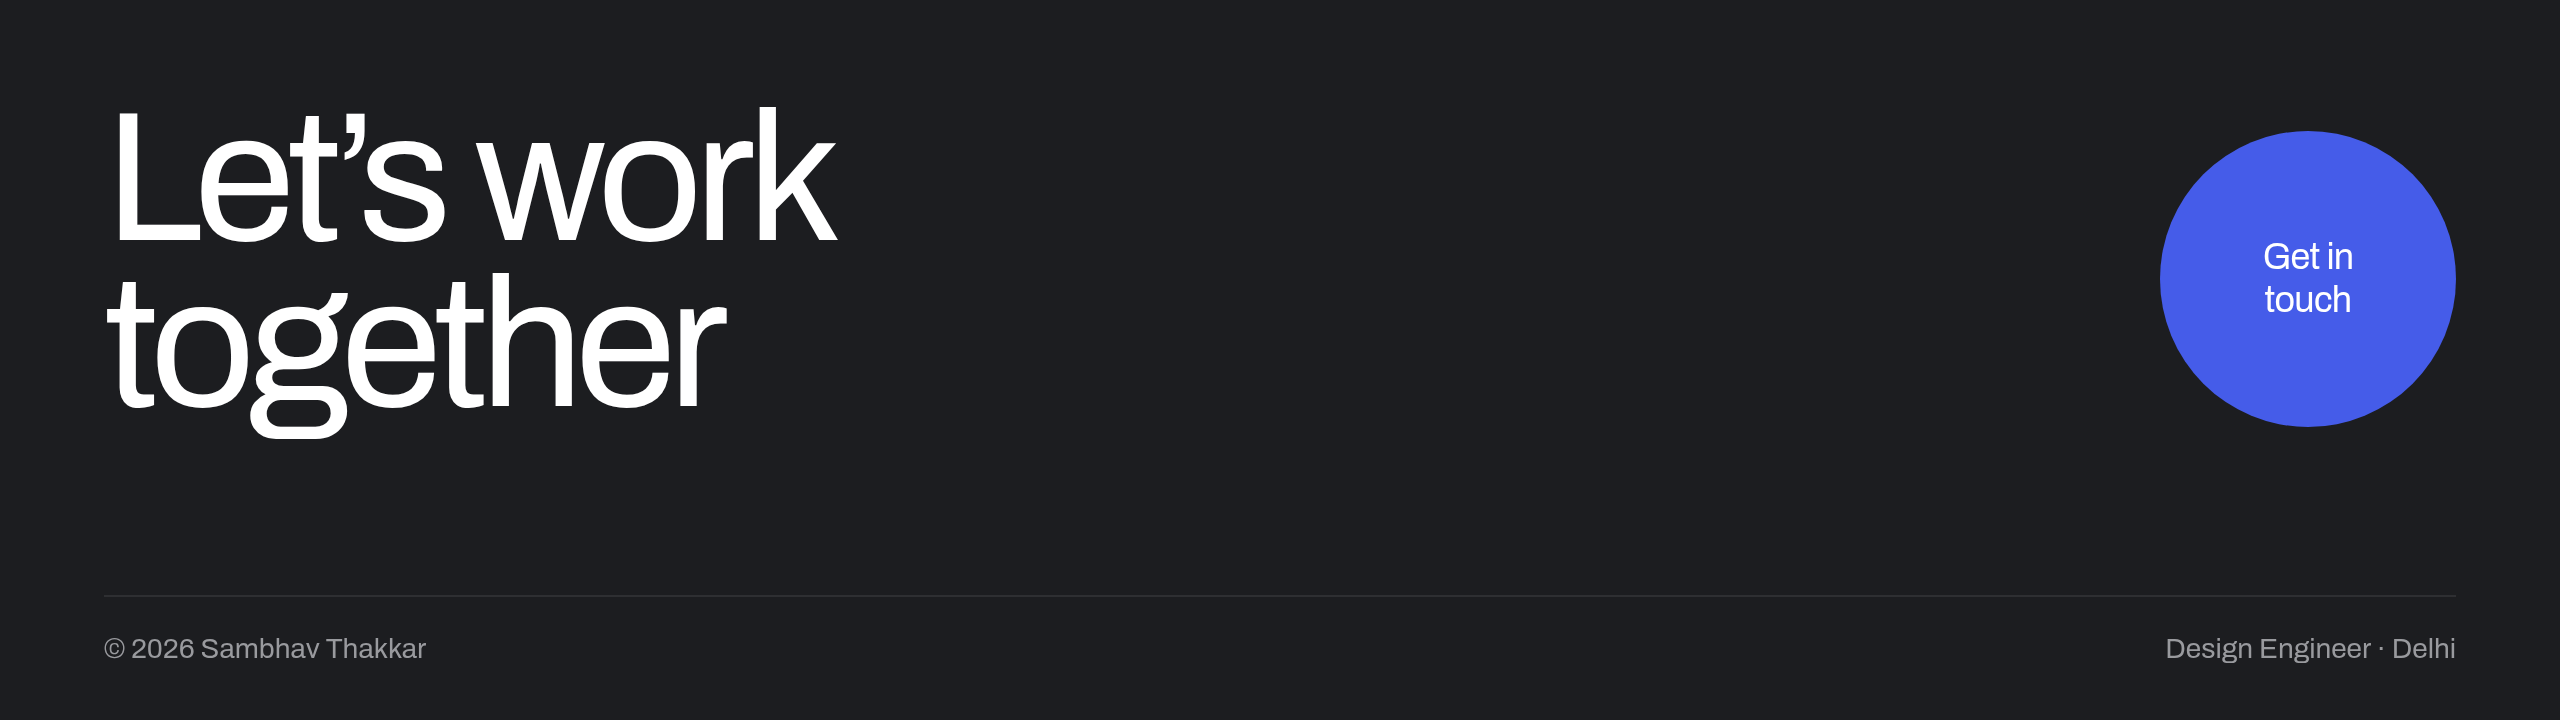
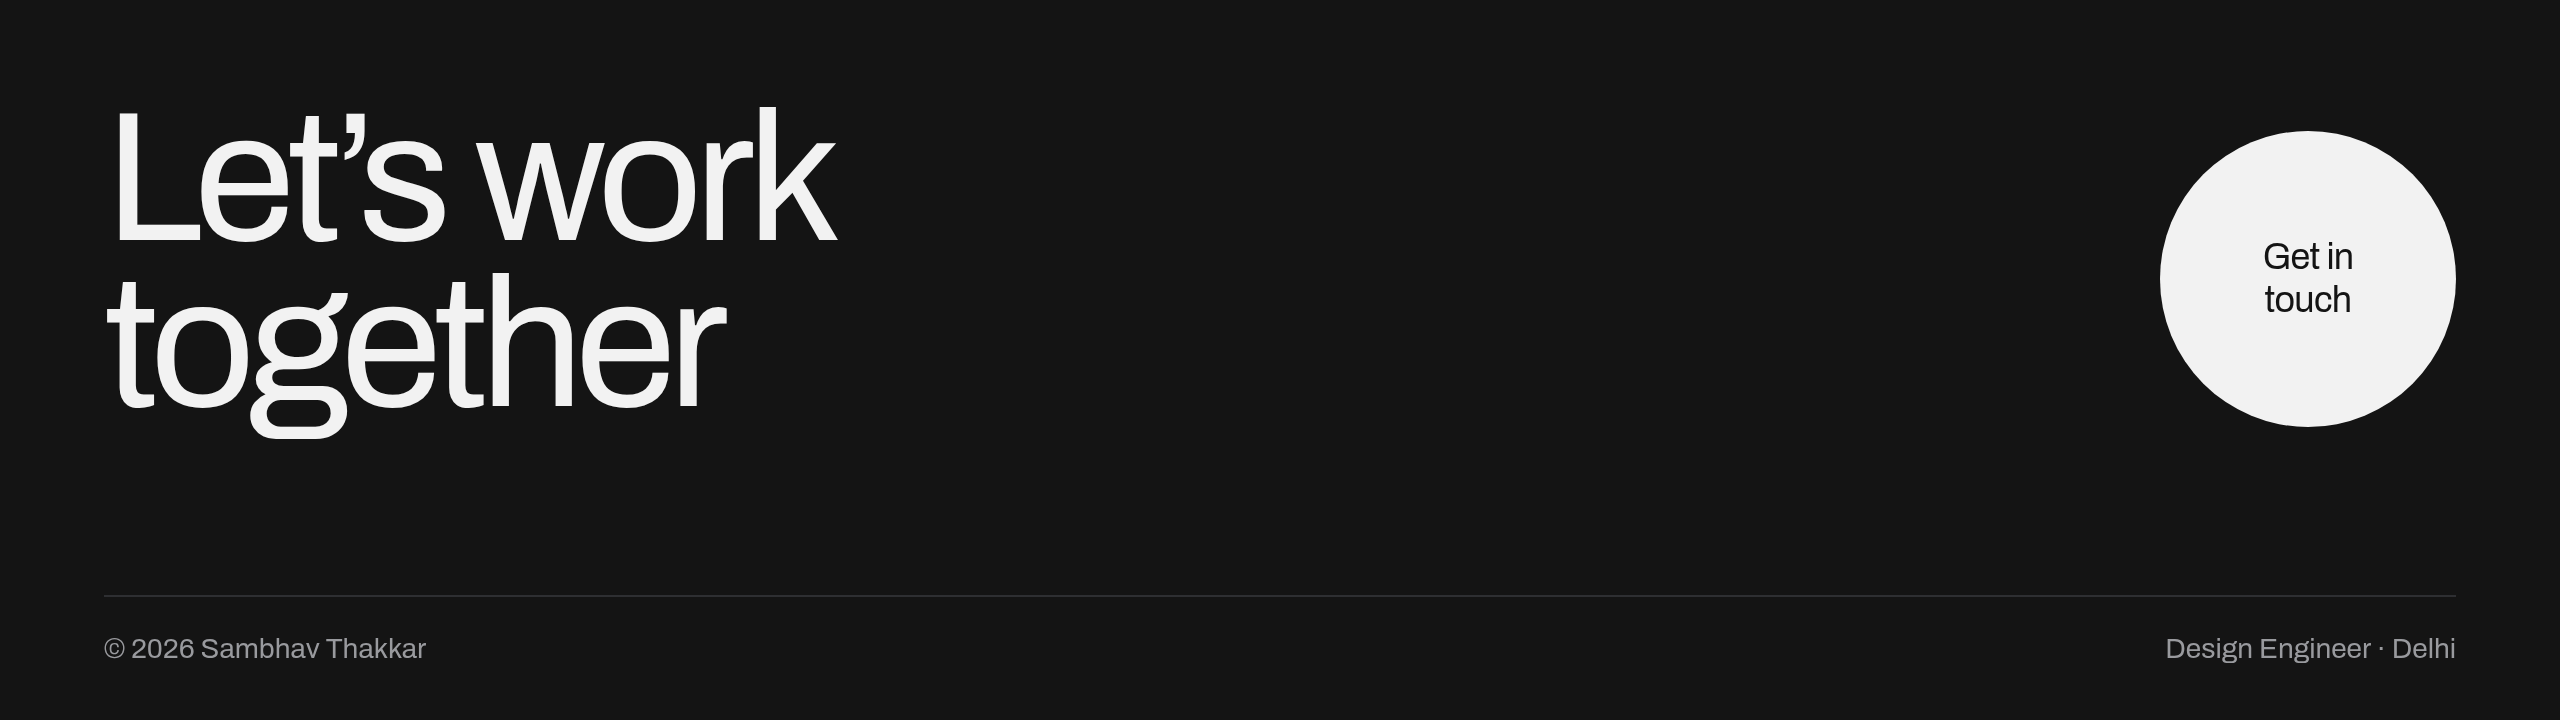
feat: ink and paper — grayscale profile
Black field, off-white type, gray calendar. No hue on the hero,
stats, lenses, footer, or toolkit.

Changed region(s): [[0.8438, 0.1833, 0.9688, 0.6111]]

diff --git a/scripts/render_header_gif.py b/scripts/render_header_gif.py
@@ -1,5 +1,5 @@
 #!/usr/bin/env python3
-"""Render the hero marquee: mode-color field + smooth scrolling name."""
+"""Grayscale hero marquee — black field, off-white type."""
 
 from __future__ import annotations
 
@@ -13,39 +13,8 @@ FRAMES = 96
 SECONDS = 8
 FONT400 = "/tmp/archivo/Archivo-400.ttf"
 FONT500 = "/tmp/archivo/Archivo-500.ttf"
-
-# cinematic.heroSurface / heroInk — studio, rust, design, go, mobile, back
-STOPS = [
-    ((0x99, 0x9D, 0x9E), (0x1C, 0x1D, 0x20)),
-    ((0xE0, 0x5A, 0x24), (0x1A, 0x0C, 0x08)),
-    ((0xC4, 0xB5, 0xFD), (0x1A, 0x12, 0x28)),
-    ((0x5E, 0xC4, 0xD8), (0x06, 0x20, 0x28)),
-    ((0x5E, 0xC8, 0xF0), (0x06, 0x10, 0x18)),
-    ((0x99, 0x9D, 0x9E), (0x1C, 0x1D, 0x20)),
-]
-
-
-def lerp(a: float, b: float, t: float) -> float:
-    return a + (b - a) * t
-
-
-def lerp_rgb(a: tuple[int, int, int], b: tuple[int, int, int], t: float) -> tuple[int, int, int]:
-    t = t * t * (3 - 2 * t)
-    return (
-        int(lerp(a[0], b[0], t)),
-        int(lerp(a[1], b[1], t)),
-        int(lerp(a[2], b[2], t)),
-    )
-
-
-def palette_at(t: float) -> tuple[tuple[int, int, int], tuple[int, int, int]]:
-    t = t % 1.0
-    pos = t * (len(STOPS) - 1)
-    i = int(pos)
-    f = pos - i
-    bg0, ink0 = STOPS[i]
-    bg1, ink1 = STOPS[min(i + 1, len(STOPS) - 1)]
-    return lerp_rgb(bg0, bg1, f), lerp_rgb(ink0, ink1, f)
+BG = (0x14, 0x14, 0x14)
+INK = (0xF2, 0xF2, 0xF2)
 
 
 def text_w(font: ImageFont.FreeTypeFont, text: str, tracking: float = 0.0) -> float:
@@ -67,23 +36,22 @@ def draw_tracked(draw, xy, text, font, fill, tracking=0.0):
     return x
 
 
-def frame(shift: float, t: float) -> Image.Image:
-    bg, ink = palette_at(t)
-    img = Image.new("RGB", (W, H), bg)
+def frame(shift: float) -> Image.Image:
+    img = Image.new("RGB", (W, H), BG)
     draw = ImageDraw.Draw(img)
     role = ImageFont.truetype(FONT400, 26)
     loc = ImageFont.truetype(FONT400, 13)
     loc_b = ImageFont.truetype(FONT500, 14)
     name = ImageFont.truetype(FONT400, 118)
 
-    draw_tracked(draw, (52, 40), "Freelance", role, ink, -0.03)
-    draw_tracked(draw, (52, 70), "Designer & Developer", role, ink, -0.03)
+    draw_tracked(draw, (52, 40), "Freelance", role, INK, -0.03)
+    draw_tracked(draw, (52, 70), "Designer & Developer", role, INK, -0.03)
 
     rx = W - 52
     y = 40
     for text, font in (("Located", loc), ("in the", loc), ("Delhi, India", loc_b)):
         tw = text_w(font, text, -0.01)
-        draw_tracked(draw, (rx - tw, y), text, font, ink, -0.01)
+        draw_tracked(draw, (rx - tw, y), text, font, INK, -0.01)
         y += 18
 
     copy = "Sambhav Thakkar — "
@@ -92,26 +60,18 @@ def frame(shift: float, t: float) -> Image.Image:
     name_y = H - 26 - 100
     x = 46 - (shift % copy_w)
     while x < W + 20:
-        draw_tracked(draw, (x, name_y), copy, name, ink, tracking)
+        draw_tracked(draw, (x, name_y), copy, name, INK, tracking)
         x += copy_w
     return img
-
-
-def quantize_all(rgb_frames: list[Image.Image]) -> list[Image.Image]:
-    sample = Image.new("RGB", (W, H * 6))
-    step = max(1, len(rgb_frames) // 6)
-    for i in range(6):
-        sample.paste(rgb_frames[min(i * step, len(rgb_frames) - 1)], (0, i * H))
-    pal = sample.quantize(colors=128, method=Image.Quantize.MEDIANCUT)
-    return [im.quantize(palette=pal, dither=Image.Dither.NONE) for im in rgb_frames]
 
 
 def main() -> None:
     out = ROOT / "header.gif"
     name = ImageFont.truetype(FONT400, 118)
     copy_w = text_w(name, "Sambhav Thakkar — ", -0.045)
-    rgb = [frame(copy_w * i / FRAMES, i / FRAMES) for i in range(FRAMES)]
-    frames = quantize_all(rgb)
+    rgb = [frame(copy_w * i / FRAMES) for i in range(FRAMES)]
+    pal = rgb[0].quantize(colors=24, method=Image.Quantize.MEDIANCUT)
+    frames = [im.quantize(palette=pal, dither=Image.Dither.NONE) for im in rgb]
     duration = int(round(1000 * SECONDS / FRAMES))
     frames[0].save(
         out,
@@ -122,7 +82,7 @@ def main() -> None:
         optimize=True,
         disposal=2,
     )
-    print("wrote", out, "bytes", out.stat().st_size, "fps", round(FRAMES / SECONDS, 2))
+    print("wrote", out, "bytes", out.stat().st_size)
 
 
 if __name__ == "__main__":

diff --git a/scripts/update_stats.py b/scripts/update_stats.py
@@ -9,11 +9,11 @@ from pathlib import Path
 
 ROOT = Path(__file__).resolve().parents[1]
 USER = "sambhavthakkar"
-# cinematic studio tokens
+# ink / paper — no hue
 BG = "1C1D20"
-ACCENT = "455CE9"
+ACCENT = "F2F2F2"
 MUTED = "999A9E"
-INK = "FFFFFF"
+INK = "F2F2F2"
 LINE = "2E2F32"
 
 STATS_URL = (
@@ -105,7 +105,7 @@ def strip_svg(commits: str, contributions: str, longest: str, rank: str) -> str:
     gap, w, h, x0, y0 = 12, 210, 140, 12, 14
     for i, (label, value, hint, accent) in enumerate(cells):
         x = x0 + i * (w + gap)
-        fill = "#455ce9" if accent else "#ffffff"
+        fill = f"#{ACCENT.lower()}" if accent else f"#{INK.lower()}"
         parts += [
             f'<rect x="{x}" y="{y0}" width="{w}" height="{h}" rx="16" fill="none" stroke="#{LINE.lower()}"/>',
             f'<text class="label" x="{x + 18}" y="{y0 + 32}">{label.upper()}</text>',
@@ -170,8 +170,19 @@ def main() -> None:
 
     s = parse_stats(stats_raw)
     k = parse_streak(streak_raw)
-    stats = freeze(stats_raw).replace("#C8C9CC", f"#{MUTED}").replace("#c8c9cc", f"#{MUTED.lower()}")
-    streak = freeze(streak_raw).replace("#C8C9CC", f"#{MUTED}").replace("#c8c9cc", f"#{MUTED.lower()}")
+    def theme(svg: str) -> str:
+        svg = freeze(svg)
+        for old, new in (
+            ("#C8C9CC", f"#{MUTED}"),
+            ("#c8c9cc", f"#{MUTED.lower()}"),
+            ("#455CE9", f"#{ACCENT}"),
+            ("#455ce9", f"#{ACCENT.lower()}"),
+        ):
+            svg = svg.replace(old, new)
+        return svg
+
+    stats = theme(stats_raw)
+    streak = theme(streak_raw)
 
     (ROOT / "github-stats.svg").write_text(stats)
     (ROOT / "streak.svg").write_text(streak)

diff --git a/README.md b/README.md
@@ -1,6 +1,6 @@
 <!--
   GitHub profile README for sambhavthakkar/sambhavthakkar
-  Palette: #1C1D20 charcoal · #999D9E hero · #455CE9 accent · #999A9E muted
+  Palette: #141414 black · #F2F2F2 paper · #999A9E muted · #2E2F32 line
 -->
 
 <p>
@@ -96,11 +96,11 @@ The dock is a filter. One profile. Four lenses.
 ```mermaid
 %%{init: {'theme':'base','themeVariables': {
   'primaryColor': '#1c1d20',
-  'primaryTextColor': '#ffffff',
-  'primaryBorderColor': '#455ce9',
+  'primaryTextColor': '#f2f2f2',
+  'primaryBorderColor': '#999a9e',
   'lineColor': '#999a9e',
   'secondaryColor': '#2e2f32',
-  'tertiaryColor': '#1c1d20'
+  'tertiaryColor': '#141414'
 }}}%%
 flowchart LR
   A[Problem with teeth] --> B[Smallest honest architecture]
@@ -117,17 +117,11 @@ Interface and system, same hand. The slice that survives a real user is the one 
 
 <sub>TOOLKIT</sub>
 
-**languages & runtimes**
+languages & runtimes · Kotlin · Dart · Go · TypeScript · JavaScript · Python
 
-<img src="https://skillicons.dev/icons?i=kotlin,dart,go,ts,js,python" alt="Kotlin, Dart, Go, TypeScript, JavaScript, Python" />
+product surface · Flutter · React / Next.js · Firebase · Figma
 
-**product surface**
-
-<img src="https://skillicons.dev/icons?i=flutter,react,firebase,figma" alt="Flutter, React, Firebase, Figma" />
-
-**ops & systems**
-
-<img src="https://skillicons.dev/icons?i=linux,docker,git,github,cloudflare" alt="Linux, Docker, Git, GitHub, Cloudflare" />
+ops & systems · Linux · Docker · Git · GitHub · Cloudflare
 
 <sub>KMP · Compose Multiplatform · Flutter · React / Next.js · Go · UI/UX · Rust exploring</sub>
 
